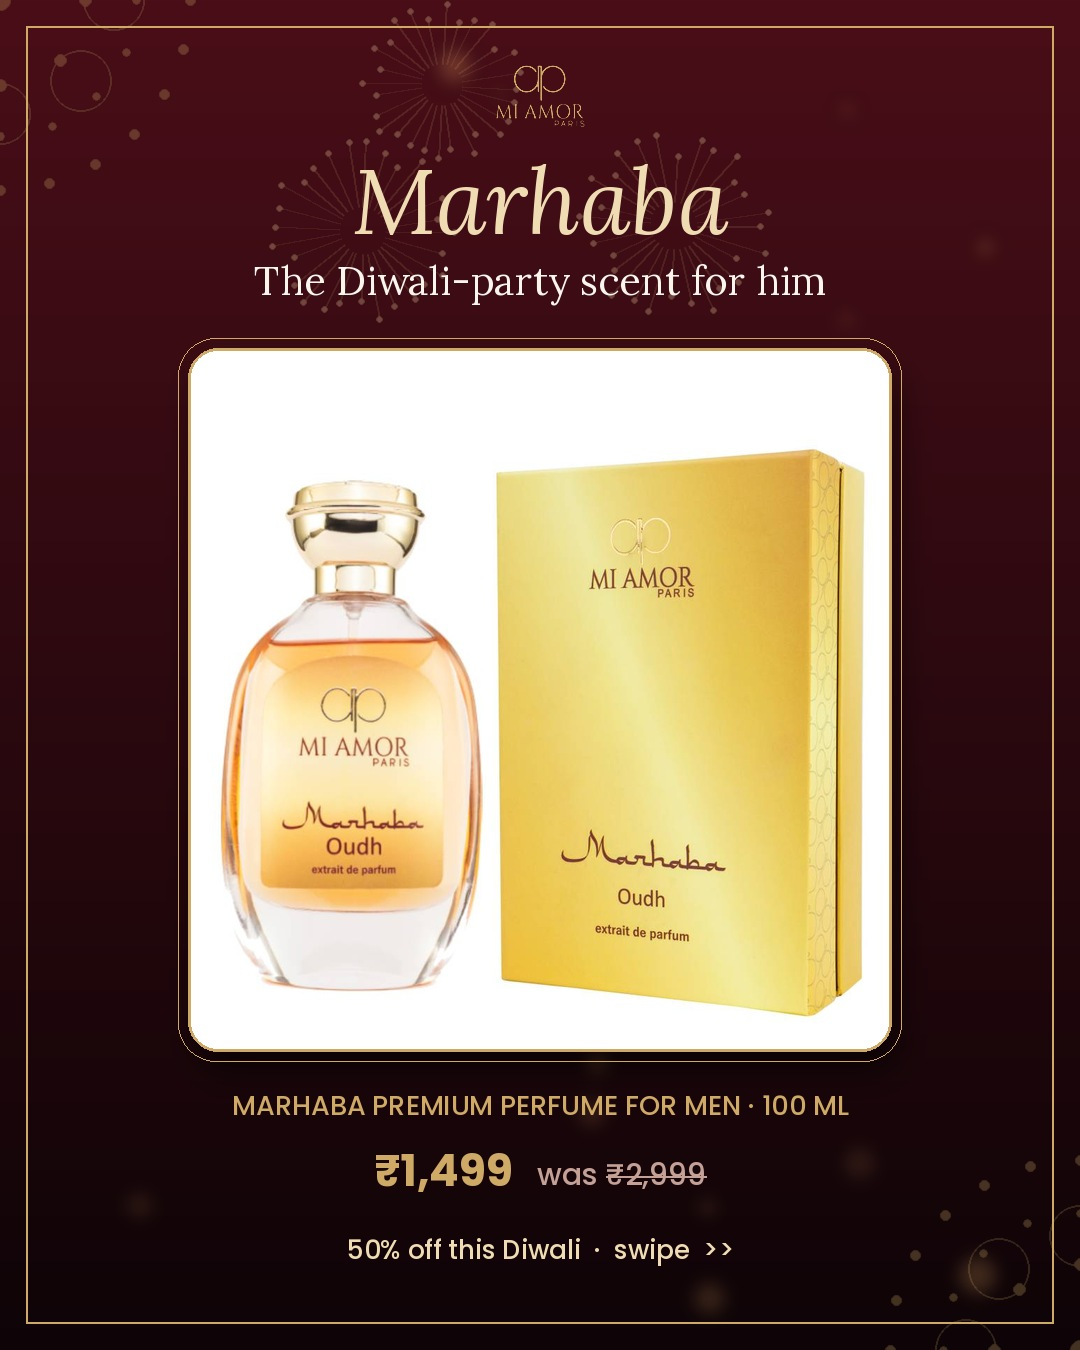
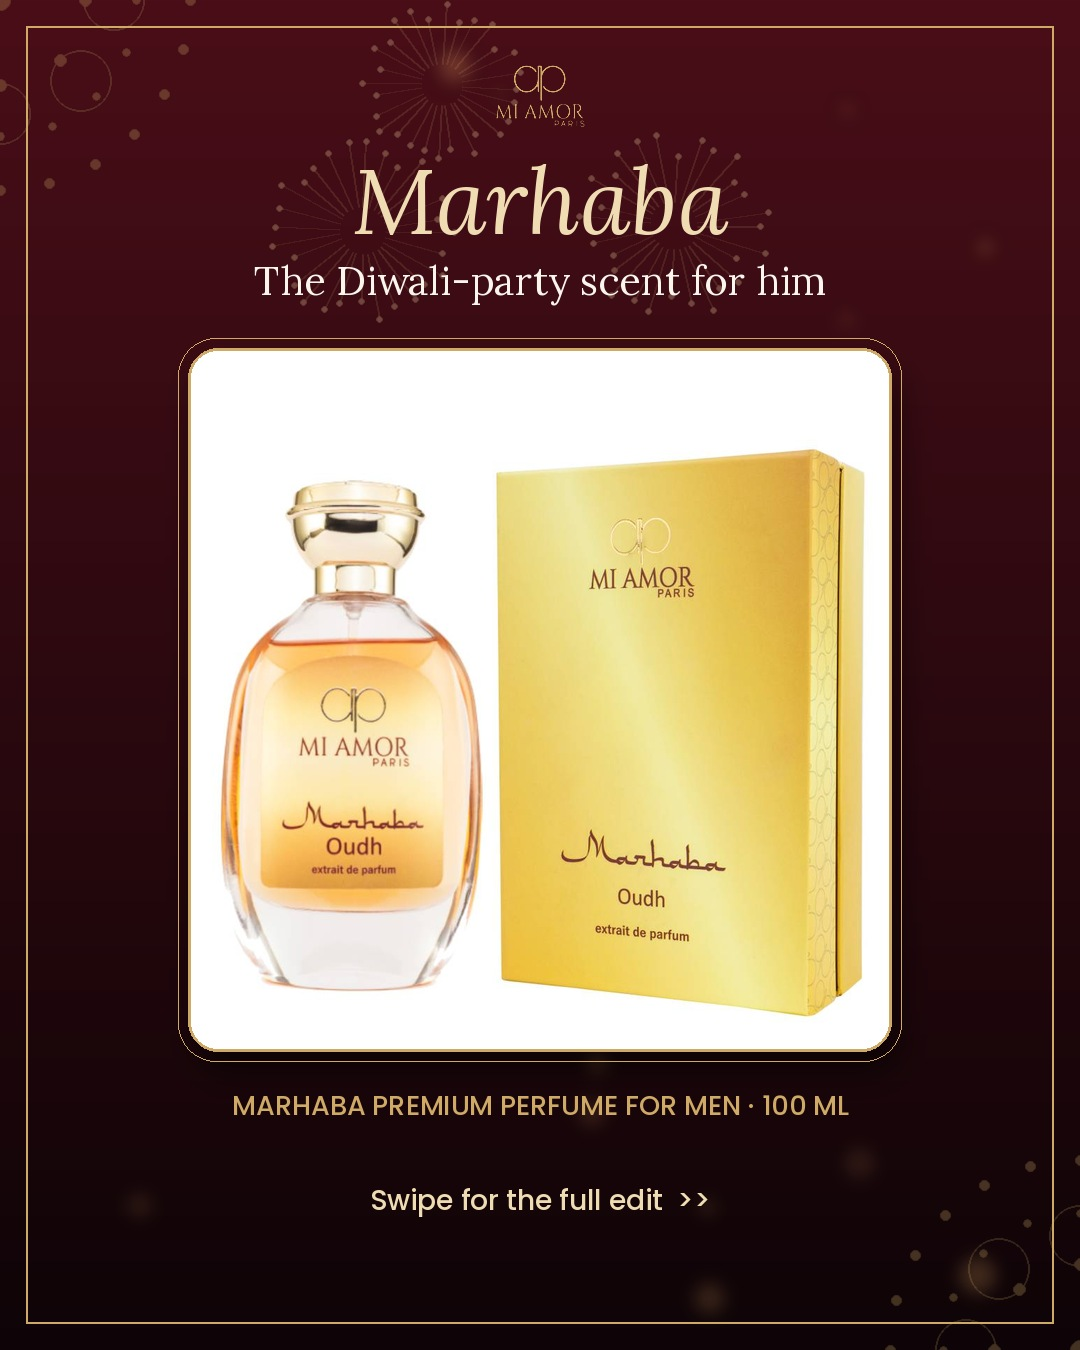
Marhaba edit: remove prices, last slide 'DM for prices & Diwali deals' (Tannay, 3 Nov)
Claude-Session: https://claude.ai/code/session_01QfcZgk1TCxQfFsu6yjKqLd

Changed region(s): [[0.3056, 0.84, 0.6722, 0.9333]]

diff --git a/posts/2026-11-03-marhaba-edit/build.py b/posts/2026-11-03-marhaba-edit/build.py
@@ -1,7 +1,7 @@
 """3 Nov 2026 feed: "Marhaba, the Diwali-party scent for him" (perfume 100 ml, Oudh shower gel, 8 ml mini).
 Look: deep wine-to-black, gold dot-rangoli medallions in the corners and soft gold firework bursts
 (new vs. the emerald jaali of 2 Nov). Real Drive photos, shown whole inside gold-framed panels.
-Notes and benefit words come from the Shopify listings. Prices verified live 2 Nov."""
+Notes and benefit words come from the Shopify listings. Prices removed 3 Nov (Tannay): last slide says "DM for prices & Diwali deals"."""
 import math, random
 from PIL import Image, ImageDraw, ImageFont, ImageFilter
 W, H = 1080, 1350
@@ -76,8 +76,7 @@ c(d, 200, "Marhaba", lora(92, True), CHAMP)
 c(d, 280, "The Diwali-party scent for him", lora(40), IVORY)
 panel(im, "perfume_main.jpg", 190, 350, 700, 700); d = ImageDraw.Draw(im)
 c(d, 1105, "MARHABA PREMIUM PERFUME FOR MEN · 100 ML", pop(27, "Medium"), GOLD)
-price(d, 1170, P_PERF, W_PERF)
-c(d, 1250, "50% off this Diwali  ·  swipe  >>", pop(26), CHAMP); out.append(im)
+c(d, 1200, "Swipe for the full edit  >>", pop(28), CHAMP); out.append(im)
 
 # 2 notes journey (lifestyle photo with saffron & rose)
 im = base(7); d = ImageDraw.Draw(im)
@@ -94,7 +93,7 @@ c(d, 965, "wrapped in the embrace of rose.", lora(46, True), IVORY)
 d.line((440, 1040, 640, 1040), fill=GOLD, width=2)
 c(d, 1100, "Made for date nights, weddings and parties.", pop(30), CHAMP)
 c(d, 1160, "Diwali get-togethers included.", pop(30), CHAMP)
-c(d, 1250, "Marhaba 100 ml  ·  " + P_PERF, pop(30, "Bold"), GOLD); out.append(im)
+c(d, 1250, "Marhaba Premium Perfume  ·  100 ml", pop(30, "Bold"), GOLD); out.append(im)
 
 # 3 shower gel
 im = base(11); d = ImageDraw.Draw(im)
@@ -104,7 +103,6 @@ c(d, 880, "Marhaba Oudh Shower Gel · 500 ml", lora(46), IVORY)
 c(d, 950, "Glycerin, shea butter and sodium hyaluronate", pop(28), CHAMP)
 c(d, 995, "for rich foam and soft, hydrated skin.", pop(28), CHAMP)
 c(d, 1060, "SOAP-FREE  ·  SULPHATE-FREE  ·  PARABEN-FREE", pop(24, "Medium"), GOLD)
-price(d, 1150, P_GEL, W_GEL)
 c(d, 1240, "The same warm oriental mood as the perfume.", pop(26), MUTE); out.append(im)
 
 # 4 mini
@@ -114,7 +112,6 @@ panel(im, "mini_studio_11.jpg", 220, 175, 640, 640); d = ImageDraw.Draw(im)
 c(d, 890, "Marhaba Premium Perfume · 8 ml", lora(46), IVORY)
 c(d, 960, "Same saffron, rose and oudh, sized for", pop(28), CHAMP)
 c(d, 1005, "a long night out or a first try.", pop(28), CHAMP)
-price(d, 1100, P_MINI, W_MINI)
 c(d, 1200, "An easy add-on to any Diwali gift.", lora(36, True), MUTE); out.append(im)
 
 # 5 CTA: all three thumbnails
@@ -124,9 +121,9 @@ c(d, 360, "Pick one, or gift him all three.", pop(30), IVORY)
 for (ph, x) in [("perfume_main.jpg", 70), ("bodywash_64.jpg", 400), ("mini_studio_11.jpg", 730)]:
     panel(im, ph, x, 440, 280, 373)
 d = ImageDraw.Draw(im)
-for (t, p, x) in [("Perfume 100 ml", P_PERF, 210), ("Shower gel 500 ml", P_GEL, 540), ("Perfume 8 ml", P_MINI, 870)]:
-    d.text((x, 860), t, font=pop(25), fill=IVORY, anchor="mm"); d.text((x, 905), p, font=pop(34, "Bold"), fill=GOLD, anchor="mm")
-c(d, 975, "50% off this Diwali (gift boxes excluded)", pop(26), MUTE)
+for (t, x) in [("Perfume 100 ml", 210), ("Shower gel 500 ml", 540), ("Perfume 8 ml", 870)]:
+    d.text((x, 865), t, font=pop(27), fill=IVORY, anchor="mm")
+c(d, 960, "DM for prices & Diwali deals", pop(44, "Bold"), GOLD)
 d.line((390, 1035, 690, 1035), fill=GOLD, width=2)
 c(d, 1110, "Shop from the link in our bio", pop(34, "Medium"), IVORY)
 c(d, 1165, "or visit us at O-17, Lajpat Nagar-II, New Delhi", pop(27), CHAMP); out.append(im)
